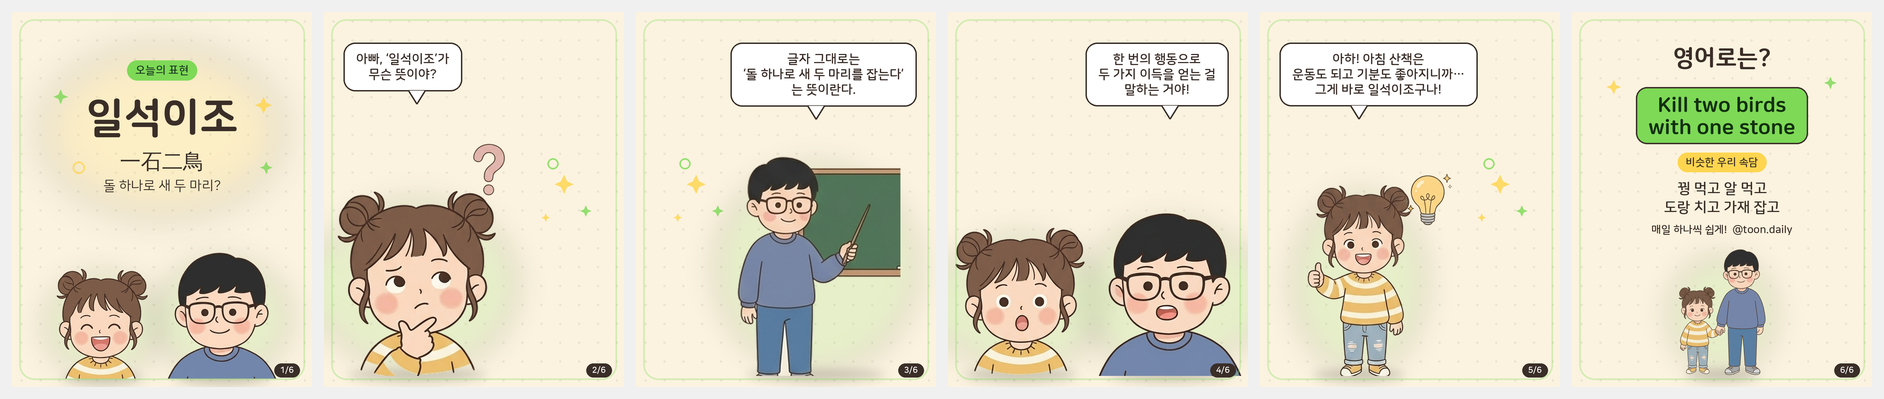
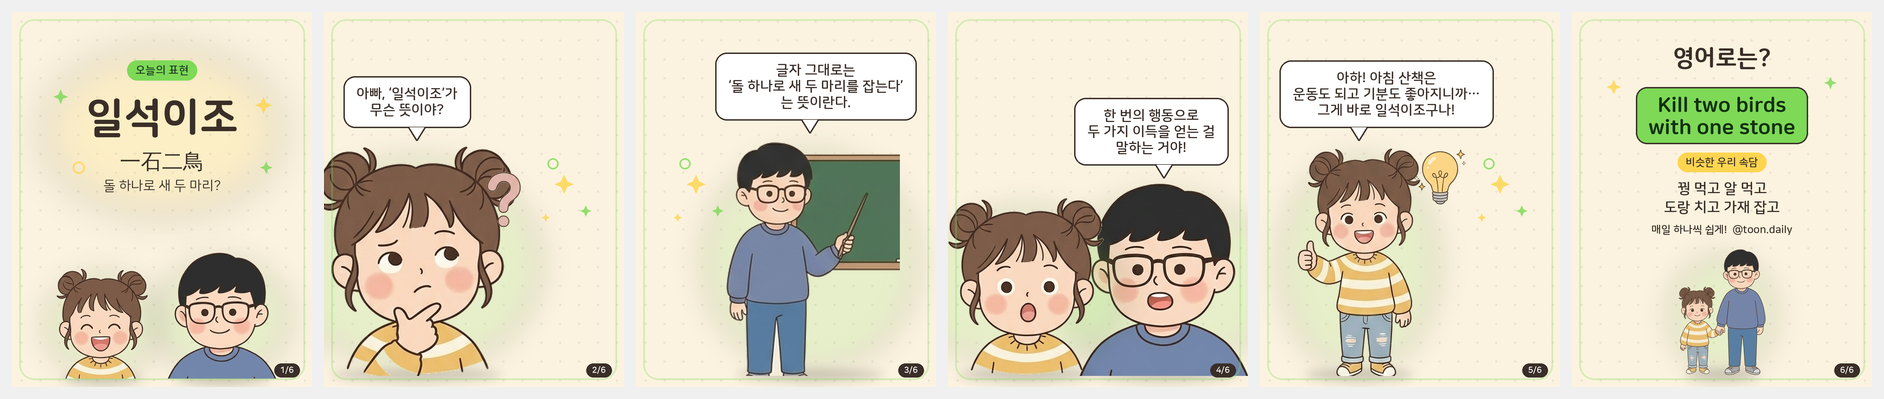
말풍선-캐릭터 간격 개선: 머리 위 앵커 + 글씨↑ + 클로즈업
- 말풍선을 캐릭터 머리 바로 위에 붙도록 앵커링(꼬리가 머리 근처에 닿음).
  기존엔 말풍선 상단 고정 + 캐릭터 하단 고정이라 사이가 크게 떴음.
- 말풍선 글씨 46→50, 여백 소폭 확대.
- 샘플 에피소드 캐릭터 스케일 확대(클로즈업)해 공간 밀도 향상.

Claude-Session: https://claude.ai/code/session_017aZsFFKZYK3uzJsAVUrejt

diff --git a/toon/build_toon.py b/toon/build_toon.py
@@ -122,7 +122,7 @@ def place(base, name, xfrac, scale, baseline=H - 40, flip=False,
     if shadow:
         ground(base, cx, min(baseline - 4, H - 34), int(tw * 0.82))
     base.alpha_composite(im, (x, y))
-    return cx
+    return cx, y  # (가로 중심, 머리 위 y)
 
 
 def place_prop(base, name, xf, yf, scale, flip=False):
@@ -141,26 +141,29 @@ def props_of(base, panel):
         place_prop(base, pr["name"], pr["x"], pr["y"], pr.get("scale", 0.12), pr.get("flip", False))
 
 # ── 말풍선 ───────────────────────────────────────────
-def bubble(base, text, side, cx, theme, top=110, maxw=640):
+def bubble(base, text, side, cx, theme, bottom=None, top=110, maxw=680):
+    """bottom 이 주어지면 말풍선 바닥을 그 y 에 맞춘다(캐릭터 머리 위 앵커).
+    반환값은 말풍선 top(y) — 여러 개일 때 위로 쌓기 용."""
     d = ImageDraw.Draw(base)
     ink, fill = hx(theme["ink"]), hx(theme["bubble"])
-    font = f_bold(46)
+    font = f_bold(50)
     text = wrap(d, text, font, maxw)
     bb = d.multiline_textbbox((0, 0), text, font=font, spacing=14, align="center")
     tw, th = bb[2] - bb[0], bb[3] - bb[1]
-    padx, pady = 46, 38
+    padx, pady = 48, 40
     bw, bh = tw + 2 * padx, th + 2 * pady
     bx = 70 if side == "left" else W - 70 - bw
-    by = top
+    by = (bottom - bh) if bottom is not None else top
+    if by < 40:
+        by = 40
     d.rounded_rectangle([bx, by, bx + bw, by + bh], radius=42, fill=fill, outline=ink, width=5)
-    # 꼬리(말하는 캐릭터 쪽으로)
     tailx = min(max(cx, bx + 60), bx + bw - 60)
     apex = (tailx, by + bh + 46)
     d.polygon([(tailx - 30, by + bh - 2), (tailx + 30, by + bh - 2), apex], fill=fill)
     d.line([(tailx - 30, by + bh - 2), apex], fill=ink, width=5)
     d.line([(tailx + 30, by + bh - 2), apex], fill=ink, width=5)
     mtext(base, (bx + bw // 2, by + pady - bb[1]), text, font, ink, anchor="ma")
-    return by + bh
+    return by
 
 def pill(base, text, cx, cy, bg, ink, font, padx=30, pady=14):
     d = ImageDraw.Draw(base)
@@ -237,19 +240,23 @@ def render(panel, theme, idx, total):
         # 캐릭터 먼저(뒤), 말풍선 나중(앞)
         chars = panel.get("chars", [])
         cxs = {}
+        tops = []
         for c in chars:
-            cxs[c.get("from", "left" if c["x"] < 0.5 else "right")] = \
-                place(base, c["name"], c["x"], c["scale"],
-                      flip=c.get("flip", False), spot=acc, shadow=True)
+            cx, ty = place(base, c["name"], c["x"], c["scale"],
+                           flip=c.get("flip", False), spot=acc, shadow=True)
+            cxs[c.get("from", "left" if c["x"] < 0.5 else "right")] = cx
+            tops.append(ty)
         if len(chars) == 1:  # 한 명이면 빈 쪽에 데코
             emptx = 0.80 if chars[0]["x"] < 0.5 else 0.20
             deco_cluster(base, int(emptx * W), 620, acc, acc2)
         props_of(base, panel)
-        top = 110
+        # 말풍선을 캐릭터 머리 바로 위에 붙임(꼬리가 머리 근처에 닿게)
+        headtop = min(tops) if tops else int(0.46 * H)
+        cursor = max(headtop - 56, 300)  # 말풍선 바닥(꼬리 위). 너무 위로는 안 감
         for b in panel.get("bubbles", []):
             side = b["from"]
             cx = cxs.get(side, int((0.25 if side == "left" else 0.75) * W))
-            top = bubble(base, b["text"], side, cx, theme, top=top) + 40
+            cursor = bubble(base, b["text"], side, cx, theme, bottom=cursor) - 24
 
     frame(base, acc, alpha=80)
     page_no(base, idx, total, theme)
